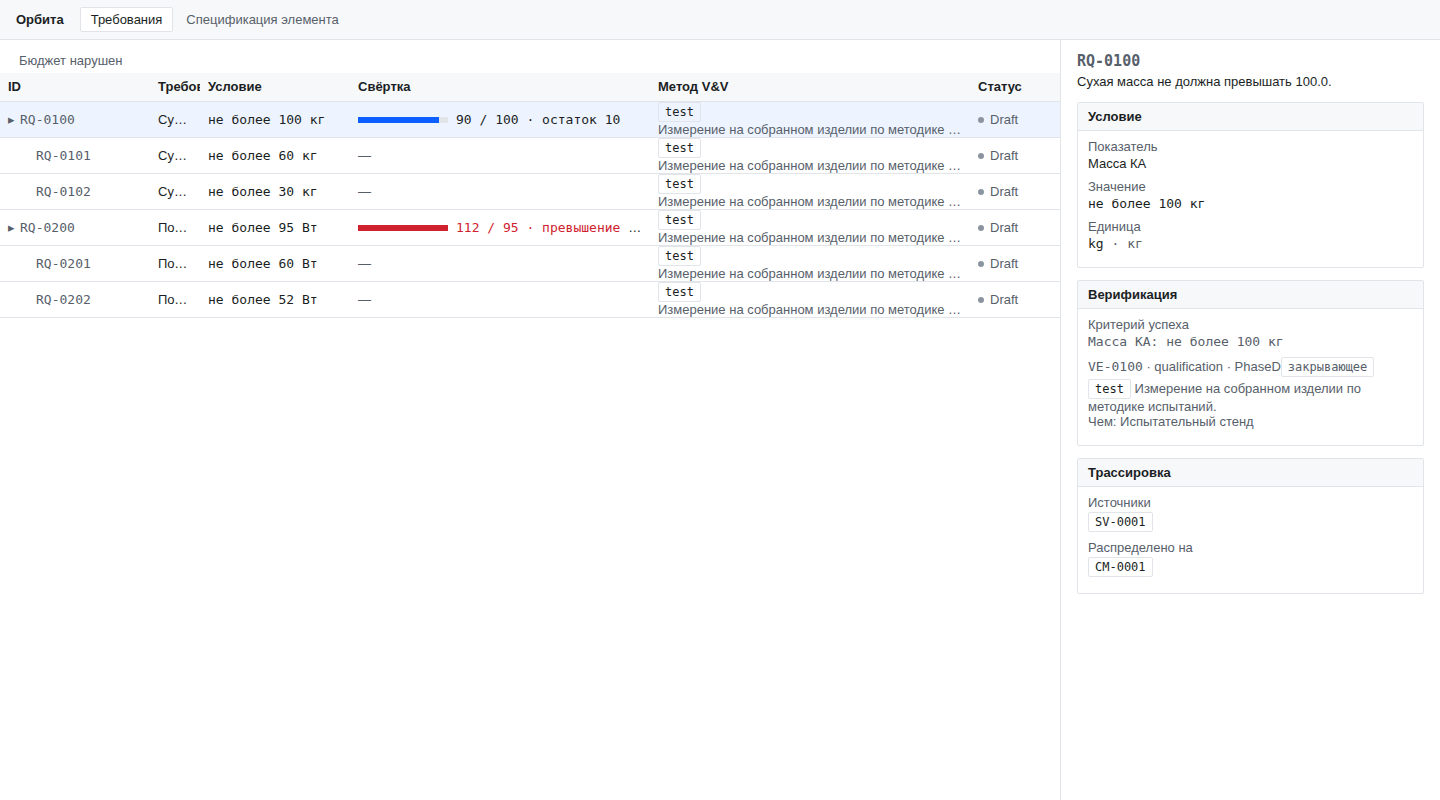
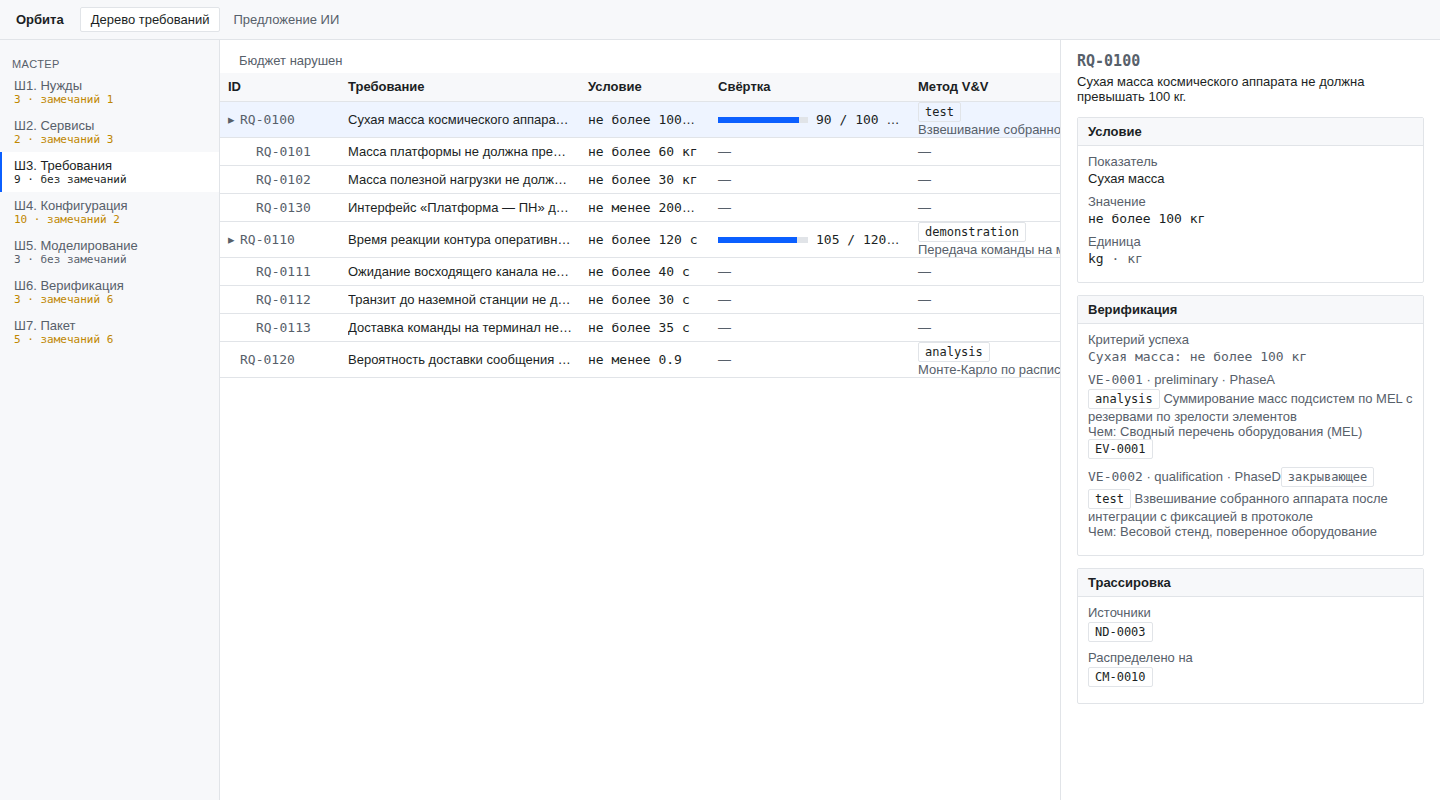
Дерево требований: мастер слева отнял ширину у формулировки
Регрессия шага 9, а не старый дефект: до появления мастера панель была шире,
и колонке без заданной ширины оставалось около 430 px. Мастер занял 220 px,
заданные ширины остались прежними — и формулировка требования схлопнулась
до полусотни пикселей.

Ширины заданы всем колонкам, включая формулировку; проверка ширины добавлена
и на этот экран. По ответу API дефект невидим: данные приходили полными,
нечитаемой была разметка.

Changed region(s): [[0.0, 0.0625, 0.9688, 0.875], [0.0938, 0.0625, 0.25, 0.1562], [0.0625, 0.0, 0.25, 0.0312]]

diff --git a/web/src/screens/Requirements.tsx b/web/src/screens/Requirements.tsx
@@ -53,13 +53,17 @@ export function Requirements() {
         </div>
         <table>
           <thead>
+            {/* Ширины заданы всем колонкам, включая формулировку. При
+                table-layout: fixed колонка без ширины получает лишь остаток —
+                и когда слева появился мастер, остатка не осталось вовсе:
+                формулировка схлопнулась до полусотни пикселей. */}
             <tr>
-              <th style={{ width: 150 }}>ID</th>
-              <th>Требование</th>
-              <th style={{ width: 150 }}>Условие</th>
-              <th style={{ width: 300 }}>Свёртка</th>
-              <th style={{ width: 320 }}>Метод V&amp;V</th>
-              <th style={{ width: 90 }}>Статус</th>
+              <th style={{ width: 120 }}>ID</th>
+              <th style={{ width: 240 }}>Требование</th>
+              <th style={{ width: 130 }}>Условие</th>
+              <th style={{ width: 200 }}>Свёртка</th>
+              <th style={{ width: 190 }}>Метод V&amp;V</th>
+              <th style={{ width: 80 }}>Статус</th>
             </tr>
           </thead>
           <tbody>
